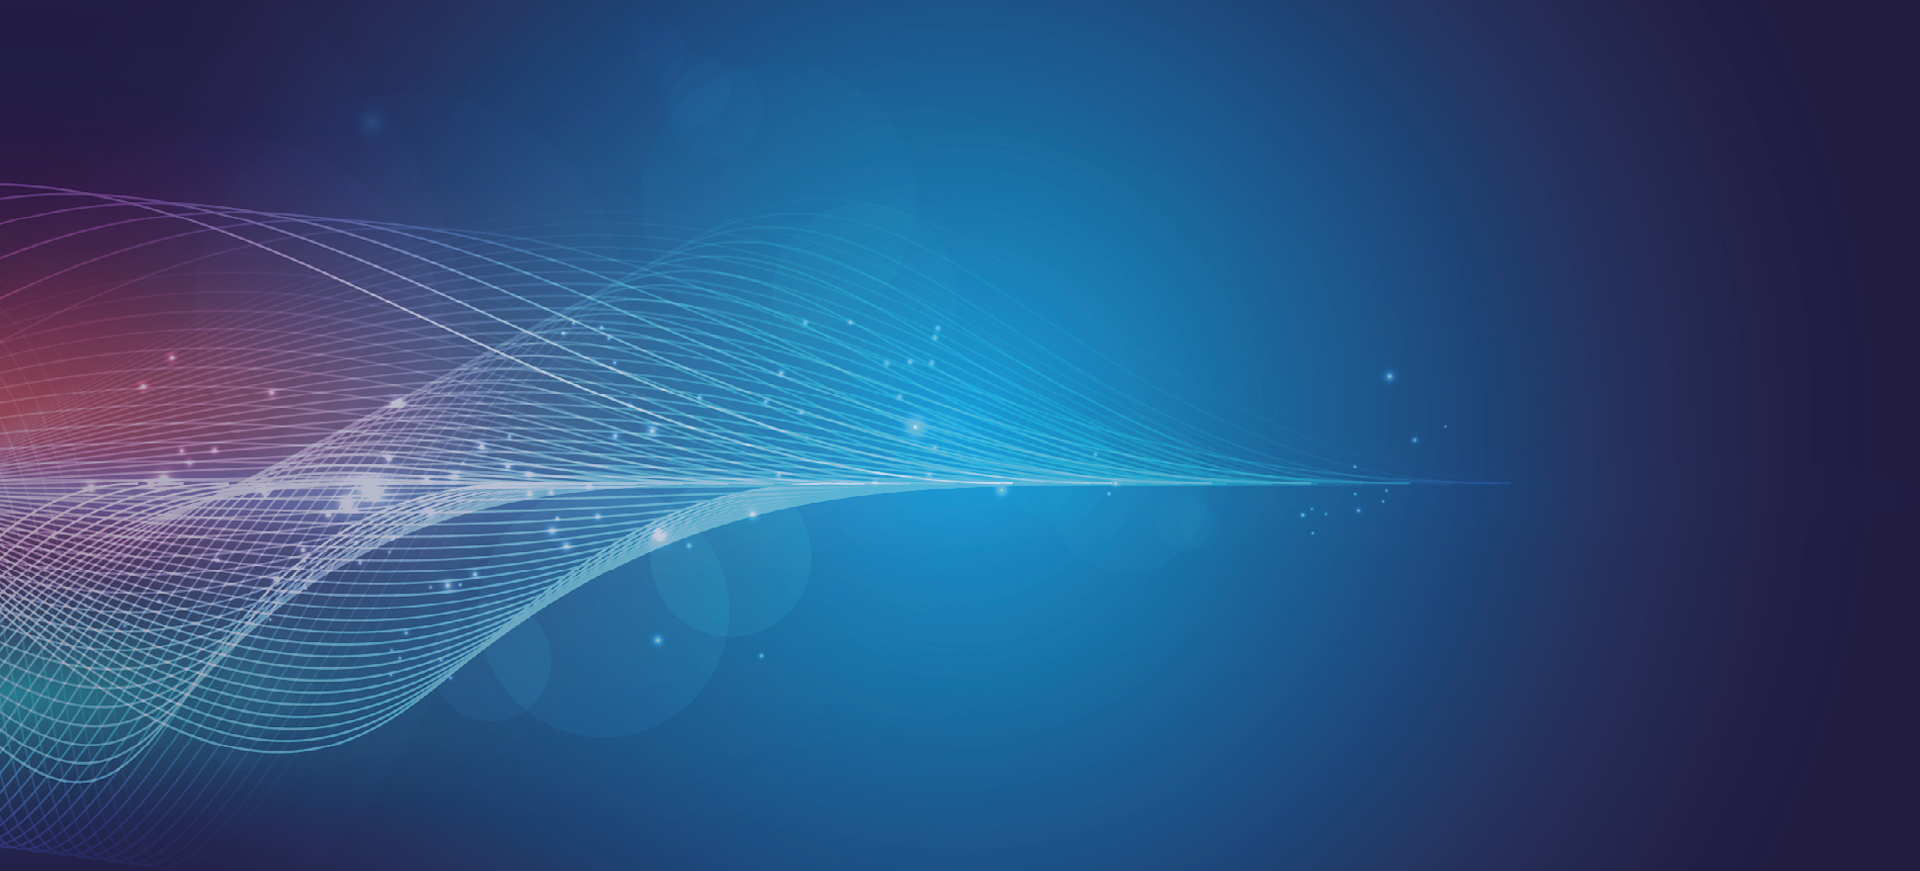
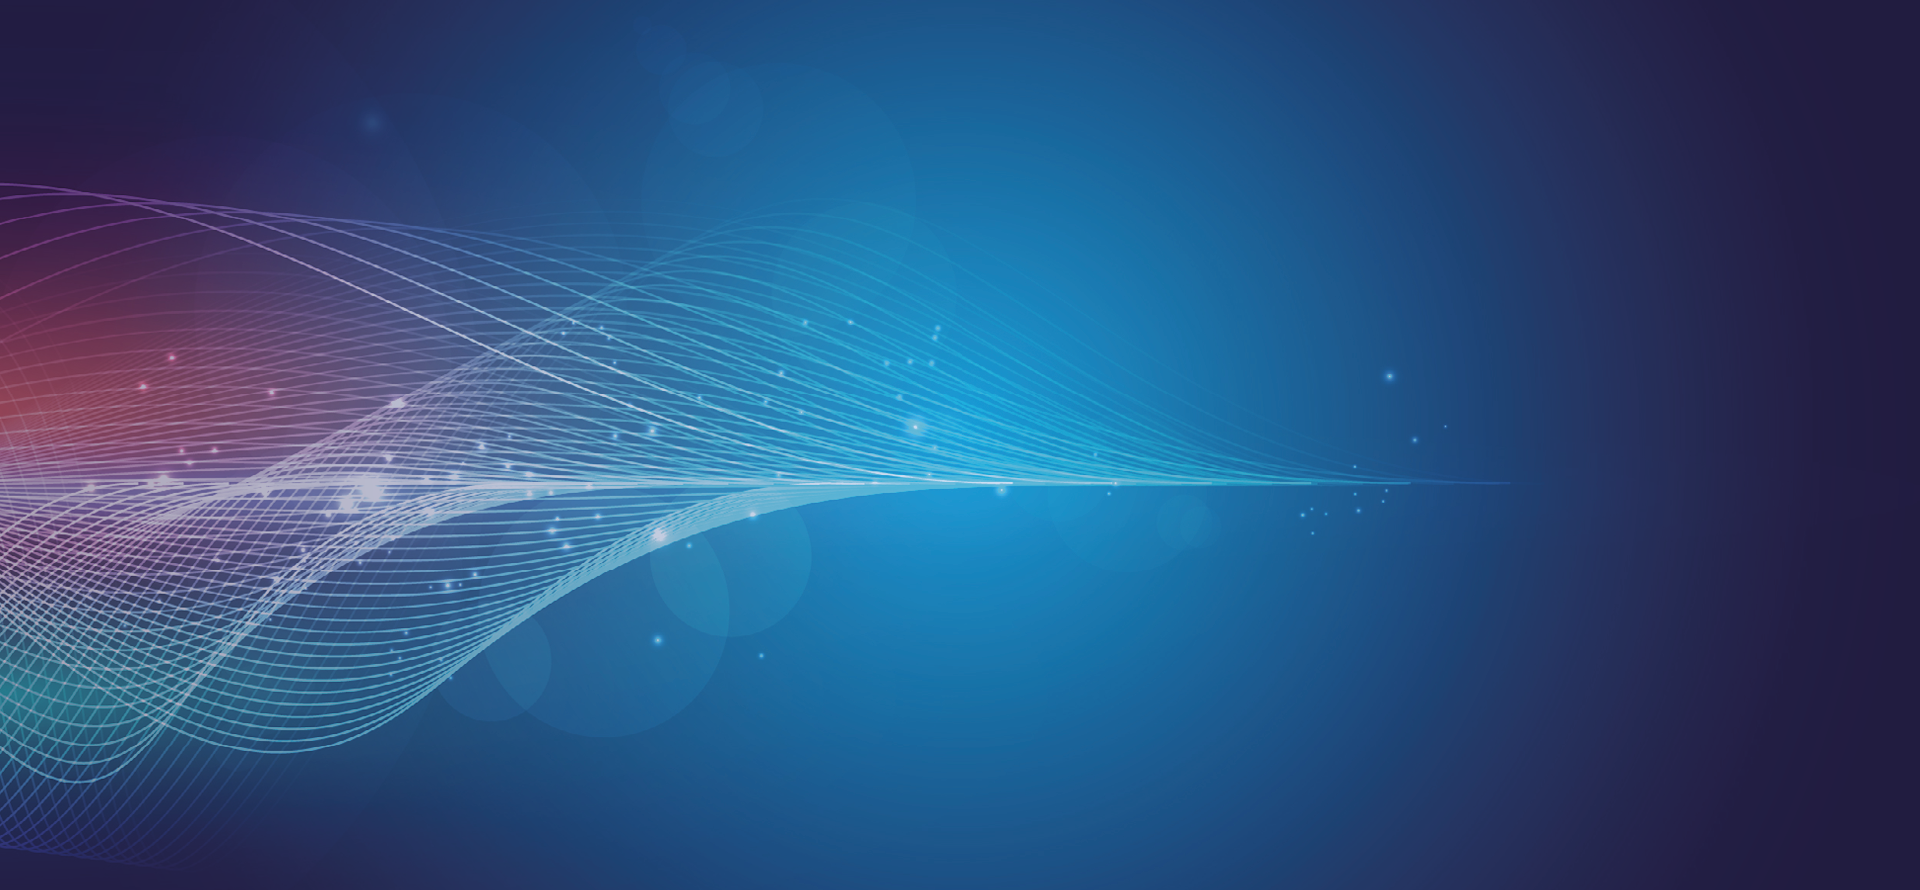
Update

Changed region(s): [[0.0, 0.186, 0.7188, 0.992]]

diff --git a/assets/css/pages.css b/assets/css/pages.css
@@ -459,8 +459,8 @@ body, #container-wrap { background:#ededed; }
 	width:1679px !important;
 	height:638px !important;
 	left:120px !important;
-	top:325px !important;
-	border-radius:57px;
+	top:343px !important;
+	border-radius:45px;
 	background:#ffffff;
 }
 
@@ -468,7 +468,7 @@ body, #container-wrap { background:#ededed; }
 	width:449px !important;
 	height:81px !important;
 	left:181px !important;
-	top:358px !important;
+	top:376px !important;
 	border-radius:14px;
 	border:solid 2px #1c9cd8;
 }
@@ -477,7 +477,7 @@ body, #container-wrap { background:#ededed; }
 	width:449px !important;
 	height:81px !important;
 	left:729px !important;
-	top:358px !important;
+	top:376px !important;
 	border-radius:14px;
 	border:solid 2px #1c9cd8;
 }
@@ -486,7 +486,7 @@ body, #container-wrap { background:#ededed; }
 	width:449px !important;
 	height:81px !important;
 	left:1277px !important;
-	top:358px !important;
+	top:376px !important;
 	border-radius:14px;
 	border:solid 2px #1c9cd8;
 }
@@ -495,7 +495,7 @@ body, #container-wrap { background:#ededed; }
 	width:449px !important;
 	height:84px !important;
 	left:194px !important;
-	top:369px !important;
+	top:387px !important;
 	border-radius:14px;
 	background:#e4007e;
 }
@@ -504,7 +504,7 @@ body, #container-wrap { background:#ededed; }
 	width:449px !important;
 	height:84px !important;
 	left:742px !important;
-	top:369px !important;
+	top:387px !important;
 	border-radius:14px;
 	background:#e4007e;
 }
@@ -513,7 +513,7 @@ body, #container-wrap { background:#ededed; }
 	width:449px !important;
 	height:84px !important;
 	left:1290px !important;
-	top:369px !important;
+	top:387px !important;
 	border-radius:14px;
 	background:#e4007e;
 }
@@ -522,7 +522,7 @@ body, #container-wrap { background:#ededed; }
 	width:462px !important;
 	height:381px !important;
 	left:181px !important;
-	top:490px !important;
+	top:509px !important;
 	border-radius:28px;
 	background:#ffffff;
 	border:solid 2px #1c9cd8;
@@ -532,7 +532,7 @@ body, #container-wrap { background:#ededed; }
 	width:462px !important;
 	height:381px !important;
 	left:729px !important;
-	top:490px !important;
+	top:509px !important;
 	border-radius:28px;
 	background:#ffffff;
 	border:solid 2px #1c9cd8;
@@ -542,7 +542,7 @@ body, #container-wrap { background:#ededed; }
 	width:462px !important;
 	height:381px !important;
 	left:1277px !important;
-	top:490px !important;
+	top:509px !important;
 	border-radius:28px;
 	background:#ffffff;
 	border:solid 2px #1c9cd8;
@@ -551,35 +551,35 @@ body, #container-wrap { background:#ededed; }
 #item268 {
 	width:1679px !important;
 	left:120px !important;
-	top:80px !important;
+	top:99px !important;
 	min-height:206px !important;
 }
 
 #item372 {
 	width:1679px !important;
 	left:120px !important;
-	top:947px !important;
+	top:965px !important;
 	min-height:16px !important;
 }
 
 #item4141 {
 	width:462px !important;
 	left:181px !important;
-	top:901px !important;
+	top:920px !important;
 	min-height:16px !important;
 }
 
 #item4166 {
 	width:462px !important;
 	left:729px !important;
-	top:901px !important;
+	top:920px !important;
 	min-height:16px !important;
 }
 
 #item4193 {
 	width:462px !important;
 	left:1277px !important;
-	top:901px !important;
+	top:920px !important;
 	min-height:16px !important;
 }
 
@@ -587,62 +587,62 @@ body, #container-wrap { background:#ededed; }
 	width:71px !important;
 	height:71px !important;
 	left:146px !important;
-	top:645px !important;
+	top:664px !important;
 }
 
 #item1961 {
 	width:71px !important;
 	height:71px !important;
 	left:693px !important;
-	top:645px !important;
+	top:664px !important;
 }
 
 #item1979 {
 	width:71px !important;
 	height:71px !important;
 	left:1241px !important;
-	top:645px !important;
+	top:664px !important;
 }
 
 #item1898 {
 	width:71px !important;
 	height:71px !important;
 	left:608px !important;
-	top:645px !important;
+	top:664px !important;
 }
 
 #item1970 {
 	width:71px !important;
 	height:71px !important;
 	left:1156px !important;
-	top:645px !important;
+	top:664px !important;
 }
 
 #item1988 {
 	width:71px !important;
 	height:71px !important;
 	left:1704px !important;
-	top:645px !important;
+	top:664px !important;
 }
 
 #item1453 {
 	width:421px !important;
 	left:208px !important;
-	top:396px !important;
+	top:415px !important;
 	min-height:29px !important;
 }
 
 #item1478 {
 	width:421px !important;
 	left:756px !important;
-	top:396px !important;
+	top:415px !important;
 	min-height:29px !important;
 }
 
 #item1503 {
 	width:421px !important;
 	left:1304px !important;
-	top:396px !important;
+	top:415px !important;
 	min-height:29px !important;
 }
 
@@ -706,7 +706,7 @@ body, #container-wrap { background:#ededed; }
 	width:365px !important;
 	height:434px !important;
 	left:230px !important;
-	top:483px !important;
+	top:501px !important;
 }
 
 #item5096 {
@@ -771,7 +771,7 @@ body, #container-wrap { background:#ededed; }
 	width:365px !important;
 	height:354px !important;
 	left:777px !important;
-	top:483px !important;
+	top:502px !important;
 }
 
 #item5943 {
@@ -803,6 +803,6 @@ body, #container-wrap { background:#ededed; }
 	width:365px !important;
 	height:354px !important;
 	left:1325px !important;
-	top:483px !important;
+	top:501px !important;
 }
 #in5footer,  #prefooter {display:none;}